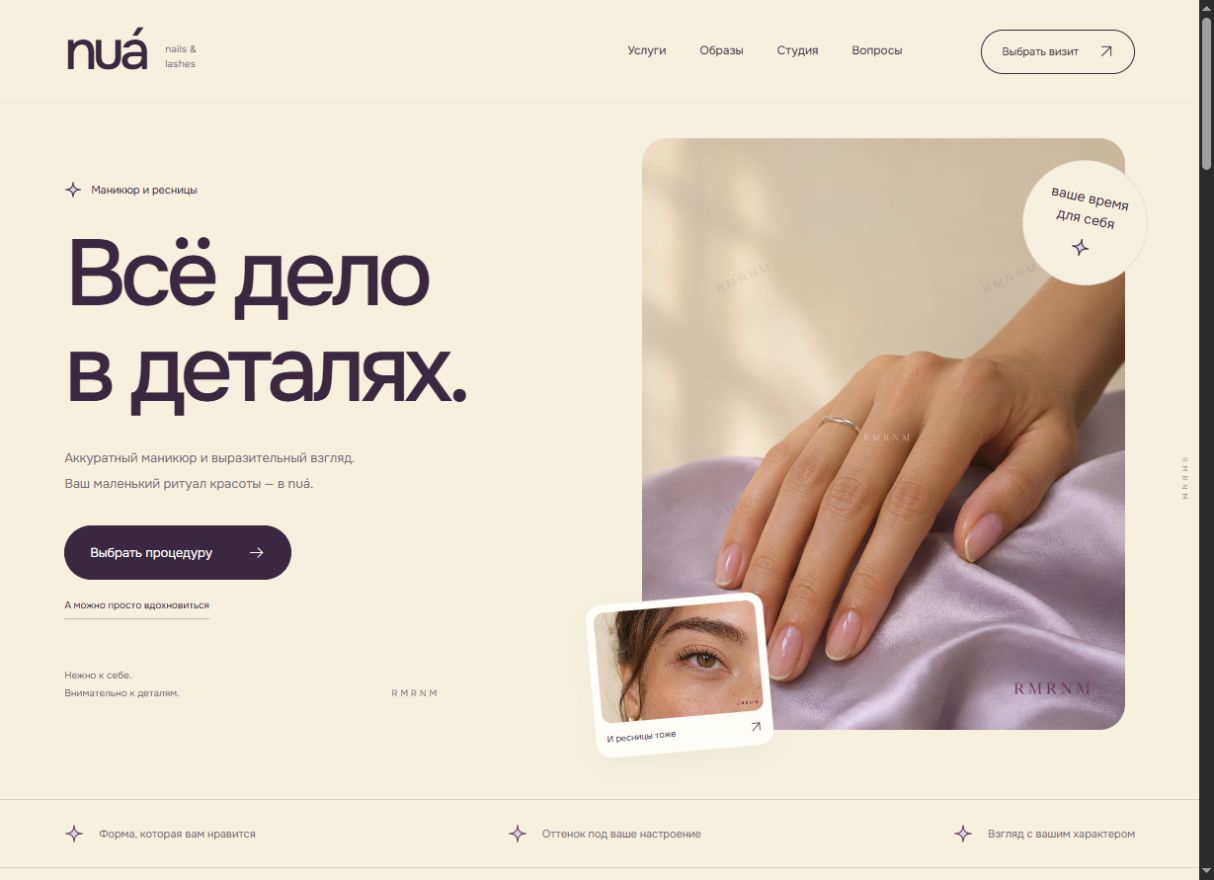
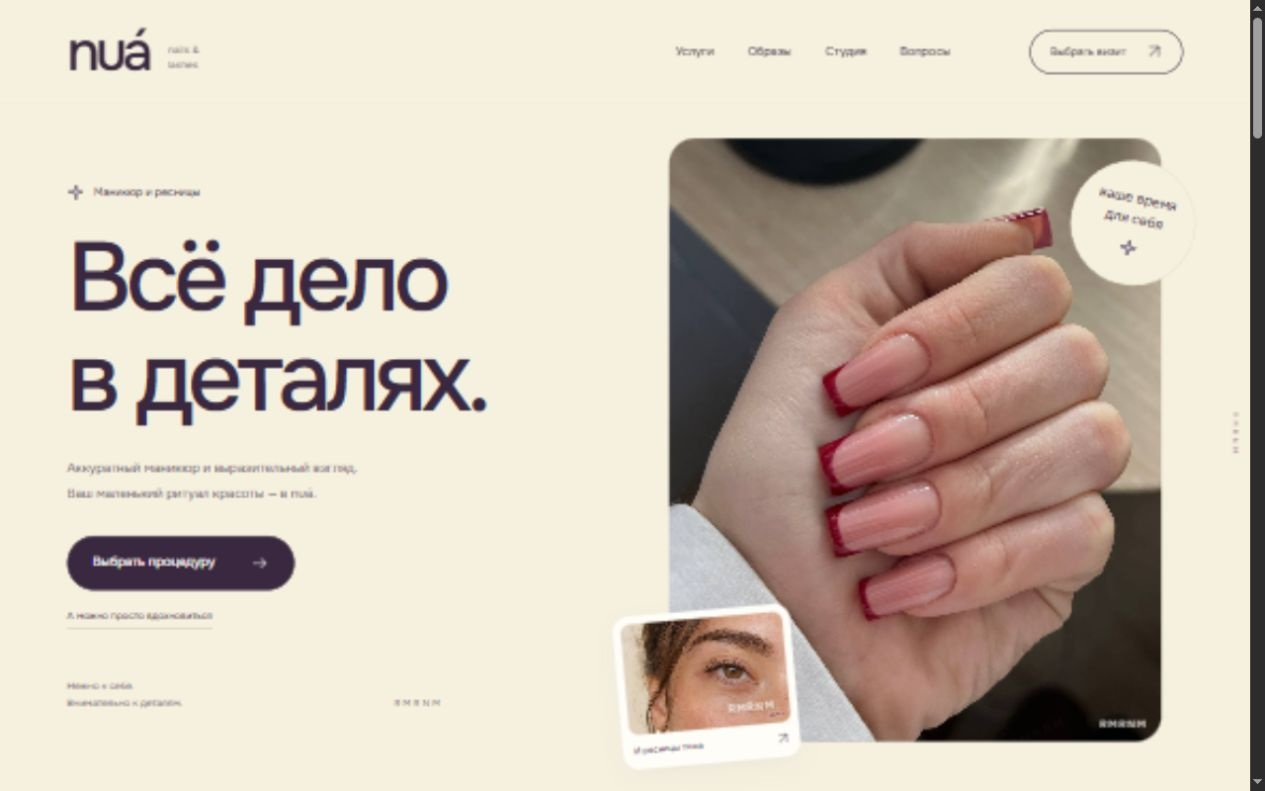
Replace manicure examples with supplied photos and preserve mobile framing

diff --git a/dist/index.html b/dist/index.html
@@ -1,22 +1,22 @@
 <!doctype html><html lang="ru"><head>
-<meta charset="utf-8"><meta name="viewport" content="width=device-width,initial-scale=1"><title>nuá — маникюр и ресницы · RMRNM</title><meta name="description" content="Маникюр, нежные оттенки и наращивание ресниц. nuá — авторский одностраничный сайт студии красоты для портфолио RMRNM."><meta name="author" content="RMRNM"><meta name="copyright" content="RMRNM"><meta name="theme-color" content="#f6f1df"><meta property="og:title" content="nuá — всё дело в деталях"><meta property="og:description" content="Маникюр и ресницы в вашем настроении. Портфолио RMRNM."><meta property="og:type" content="website"><meta property="og:image" content="https://rmrv-n.github.io/nua-rmrnm/assets/hero-nails.webp"><link rel="icon" href="assets/favicon.svg" type="image/svg+xml"><link rel="stylesheet" href="assets/fonts.css"><link rel="stylesheet" href="assets/style.css"><script src="assets/app.js" defer></script>
+<meta charset="utf-8"><meta name="viewport" content="width=device-width,initial-scale=1"><title>nuá — маникюр и ресницы · RMRNM</title><meta name="description" content="Маникюр, нежные оттенки и наращивание ресниц. nuá — авторский одностраничный сайт студии красоты для портфолио RMRNM."><meta name="author" content="RMRNM"><meta name="copyright" content="RMRNM"><meta name="theme-color" content="#f6f1df"><meta property="og:title" content="nuá — всё дело в деталях"><meta property="og:description" content="Маникюр и ресницы в вашем настроении. Портфолио RMRNM."><meta property="og:type" content="website"><meta property="og:image" content="https://rmrv-n.github.io/nua-rmrnm/assets/real-burgundy-french.jpg"><link rel="icon" href="assets/favicon.svg" type="image/svg+xml"><link rel="stylesheet" href="assets/fonts.css"><link rel="stylesheet" href="assets/style.css"><script src="assets/app.js" defer></script>
 </head><body id="top">
 <svg class="svg-library" aria-hidden="true" xmlns="http://www.w3.org/2000/svg"><defs><symbol id="arrow" viewBox="0 0 24 24"><path d="M4 12h16m-6-6 6 6-6 6"/></symbol><symbol id="diagonal" viewBox="0 0 24 24"><path d="M5 19 19 5M5 5h14v14"/></symbol><symbol id="plus" viewBox="0 0 24 24"><path d="M5 12h14M12 5v14"/></symbol><symbol id="close" viewBox="0 0 24 24"><path d="m5 5 14 14M19 5 5 19"/></symbol><symbol id="spark" viewBox="0 0 24 24"><path d="M12 2c0 7-3 10-10 10 7 0 10 3 10 10 0-7 3-10 10-10-7 0-10-3-10-10Z"/></symbol></defs></svg>
 <a class="skip" href="#main">К содержанию</a>
 <header class="header"><a class="logo" href="#top" aria-label="nuá — на главную">nuá<span>nails & lashes</span></a><nav id="nav" aria-label="Основная навигация"><a href="#services">Услуги</a><a href="#looks">Образы</a><a href="#studio">Студия</a><a href="#questions">Вопросы</a></nav><a class="header-book" href="#visit">Выбрать визит <svg class="icon" aria-hidden="true"><use href="#diagonal"/></svg></a><button class="menu-button" type="button" aria-label="Открыть меню" aria-expanded="false" aria-controls="nav"><span></span><span></span></button></header>
 <main id="main">
- <section class="hero container"><div class="hero-copy"><span class="hero-label"><svg class="icon" aria-hidden="true"><use href="#spark"/></svg> Маникюр и ресницы</span><h1>Всё дело<br> в деталях.</h1><p>Аккуратный маникюр и выразительный взгляд.<br> Ваш маленький ритуал красоты — в nuá.</p><a class="button" href="#services">Выбрать процедуру <svg class="icon" aria-hidden="true"><use href="#arrow"/></svg></a><a class="hero-work-link" href="#looks">А можно просто вдохновиться</a><div class="hero-bottom"><span>Нежно к себе.<br> Внимательно к деталям.</span><span class="hero-maker">RMRNM</span></div></div><div class="hero-art"><div class="hero-photo marked"><img src="assets/hero-nails.webp" width="1000" height="1250" alt="Нежный молочный маникюр с тонким микрофренчем на лиловом атласе" fetchpriority="high" decoding="async"></div><span class="hero-sticker" aria-hidden="true">ваше время<br> для себя<svg class="icon" aria-hidden="true"><use href="#spark"/></svg></span><a class="lash-peek" href="#lashes"><div class="marked"><img src="assets/lashes-small.webp" width="700" height="467" alt="Естественное наращивание ресниц" loading="lazy"></div><span>И ресницы тоже <svg class="icon" aria-hidden="true"><use href="#diagonal"/></svg></span></a></div></section>
+ <section class="hero container"><div class="hero-copy"><span class="hero-label"><svg class="icon" aria-hidden="true"><use href="#spark"/></svg> Маникюр и ресницы</span><h1>Всё дело<br> в деталях.</h1><p>Аккуратный маникюр и выразительный взгляд.<br> Ваш маленький ритуал красоты — в nuá.</p><a class="button" href="#services">Выбрать процедуру <svg class="icon" aria-hidden="true"><use href="#arrow"/></svg></a><a class="hero-work-link" href="#looks">А можно просто вдохновиться</a><div class="hero-bottom"><span>Нежно к себе.<br> Внимательно к деталям.</span><span class="hero-maker">RMRNM</span></div></div><div class="hero-art"><div class="hero-photo marked"><img src="assets/real-burgundy-french.jpg" width="1000" height="1250" alt="Маникюр на фото пользователя: нюдовая база и бордовый френч на квадратных ногтях" fetchpriority="high" decoding="async"></div><span class="hero-sticker" aria-hidden="true">ваше время<br> для себя<svg class="icon" aria-hidden="true"><use href="#spark"/></svg></span><a class="lash-peek" href="#lashes"><div class="marked"><img src="assets/lashes-small.webp" width="700" height="467" alt="Естественное наращивание ресниц" loading="lazy"></div><span>И ресницы тоже <svg class="icon" aria-hidden="true"><use href="#diagonal"/></svg></span></a></div></section>
  <div class="little-things container"><span><svg class="icon" aria-hidden="true"><use href="#spark"/></svg>Форма, которая вам нравится</span><span><svg class="icon" aria-hidden="true"><use href="#spark"/></svg>Оттенок под ваше настроение</span><span><svg class="icon" aria-hidden="true"><use href="#spark"/></svg>Взгляд с вашим характером</span></div>
  <section class="services container" id="services"><div class="section-heading"><div><p class="eyebrow">Выберите своё настроение</p><h2>Забота о себе.<br> До кончиков.</h2></div><p>От лаконичного маникюра до мягкого объёма ресниц.<br> Один мастер — внимание к каждой детали.</p></div><div class="service-layout"><div class="service-tabs" role="group" aria-label="Направление услуг"><button type="button" data-category="nails" aria-pressed="true"><span>Маникюр</span><svg class="icon" aria-hidden="true"><use href="#arrow"/></svg></button><button type="button" data-category="lashes" aria-pressed="false"><span>Ресницы</span><svg class="icon" aria-hidden="true"><use href="#arrow"/></svg></button><p>Все цены и длительность показаны для демонстрации сайта.</p></div><div id="service-list" class="service-list" aria-live="polite"><article><div><h3>Маникюр без покрытия</h3><p>Форма и аккуратный естественный вид · 60 мин</p></div><strong>1 200 ₽</strong><button type="button" data-service="manicure" aria-label="Выбрать маникюр без покрытия"><svg class="icon" aria-hidden="true"><use href="#diagonal"/></svg></button></article><article><div><h3>Маникюр с гель-лаком</h3><p>Ваш любимый оттенок или молочный нюд · 105 мин</p></div><strong>2 400 ₽</strong><button type="button" data-service="gel" aria-label="Выбрать маникюр с гель-лаком"><svg class="icon" aria-hidden="true"><use href="#diagonal"/></svg></button></article><article><div><h3>Наращивание ногтей</h3><p>Когда хочется другой длины и формы · 150 мин</p></div><strong>3 400 ₽</strong><button type="button" data-service="extensions" aria-label="Выбрать наращивание ногтей"><svg class="icon" aria-hidden="true"><use href="#diagonal"/></svg></button></article></div></div></section>
- <section class="looks-section" id="looks"><div class="container"><div class="section-heading"><div><p class="eyebrow">Не обязательно знать заранее</p><h2>Найдите своё «хочу».</h2></div><div class="look-filters" role="group" aria-label="Фильтр образов"><button type="button" data-filter="all" aria-pressed="true">Все образы</button><button type="button" data-filter="nails" aria-pressed="false">Ногти</button><button type="button" data-filter="lashes" aria-pressed="false">Ресницы</button></div></div><div class="look-grid"><article class="look" data-type="nails"><button type="button" class="look-photo marked" data-look="micro" aria-label="Рассмотреть молочный микрофренч"><img src="assets/hero-nails.webp" srcset="assets/hero-nails-small.webp 520w, assets/hero-nails.webp 1000w" sizes="(max-width:650px) 48vw, 25vw" width="1000" height="1250" alt="Полупрозрачные ногти с тонкой светлой линией" loading="lazy"><span><svg class="icon" aria-hidden="true"><use href="#plus"/></svg></span></button><h3>Молочный микрофренч</h3><p>Тонкая линия, много нежности</p></article><article class="look" data-type="nails"><button type="button" class="look-photo marked" data-look="cherry" aria-label="Рассмотреть вишнёвый маникюр"><img src="assets/cherry-nails.webp" srcset="assets/cherry-nails-small.webp 520w, assets/cherry-nails.webp 1000w" sizes="(max-width:650px) 48vw, 25vw" width="1000" height="1250" alt="Короткие овальные ногти глубокого вишнёвого оттенка" loading="lazy"><span><svg class="icon" aria-hidden="true"><use href="#plus"/></svg></span></button><h3>Спелая вишня</h3><p>Маленький уверенный акцент</p></article><article class="look" data-type="nails"><button type="button" class="look-photo marked" data-look="pearl" aria-label="Рассмотреть жемчужный маникюр"><img src="assets/pearl-nails.webp" srcset="assets/pearl-nails-small.webp 520w, assets/pearl-nails.webp 1000w" sizes="(max-width:650px) 48vw, 25vw" width="1000" height="1250" alt="Молочные ногти с мягким перламутровым сиянием" loading="lazy"><span><svg class="icon" aria-hidden="true"><use href="#plus"/></svg></span></button><h3>Жемчужное сияние</h3><p>Свет в каждом движении</p></article><article class="look" data-type="lashes"><button type="button" class="look-photo marked" data-look="gaze" aria-label="Рассмотреть естественный эффект ресниц"><img class="eye-crop" src="assets/lashes.webp" width="1600" height="1067" alt="Выразительный карий глаз с естественным эффектом ресниц" loading="lazy"><span><svg class="icon" aria-hidden="true"><use href="#plus"/></svg></span></button><h3>Выразительный взгляд</h3><p>Лёгкость и красивая линия</p></article></div><p class="gallery-note">Визуальные концепции RMRNM для портфолио. Фотографии созданы с помощью imagegen.</p></div></section>
+ <section class="looks-section" id="looks"><div class="container"><div class="section-heading"><div><p class="eyebrow">Не обязательно знать заранее</p><h2>Найдите своё «хочу».</h2></div><div class="look-filters" role="group" aria-label="Фильтр образов"><button type="button" data-filter="all" aria-pressed="true">Все образы</button><button type="button" data-filter="nails" aria-pressed="false">Ногти</button><button type="button" data-filter="lashes" aria-pressed="false">Ресницы</button></div></div><div class="look-grid"><article class="look" data-type="nails"><button type="button" class="look-photo marked" data-look="micro" aria-label="Рассмотреть бордовый френч"><img src="assets/real-burgundy-french.jpg" sizes="(max-width:650px) 48vw, 25vw" width="1000" height="1250" alt="Нюдовые квадратные ногти с бордовыми кончиками" loading="lazy"><span><svg class="icon" aria-hidden="true"><use href="#plus"/></svg></span></button><h3>Бордовый френч</h3><p>Нюдовая база и винный акцент</p></article><article class="look" data-type="nails"><button type="button" class="look-photo marked" data-look="cherry" aria-label="Рассмотреть белый френч"><img src="assets/real-white-french.jpg" sizes="(max-width:650px) 48vw, 25vw" width="1000" height="1250" alt="Белый френч на квадратных ногтях, фото руки при дневном свете" loading="lazy"><span><svg class="icon" aria-hidden="true"><use href="#plus"/></svg></span></button><h3>Белый френч</h3><p>Чёткая линия на мягком квадрате</p></article><article class="look" data-type="nails"><button type="button" class="look-photo marked" data-look="pearl" aria-label="Рассмотреть ярко-розовый маникюр"><img src="assets/real-pink-nails.jpg" sizes="(max-width:650px) 48vw, 25vw" width="1000" height="1250" alt="Ярко-розовые квадратные ногти с прозрачными объёмными каплями" loading="lazy"><span><svg class="icon" aria-hidden="true"><use href="#plus"/></svg></span></button><h3>Розовый акцент</h3><p>Насыщенный цвет и объёмные детали</p></article><article class="look" data-type="lashes"><button type="button" class="look-photo marked" data-look="gaze" aria-label="Рассмотреть естественный эффект ресниц"><img class="eye-crop" src="assets/lashes.webp" width="1600" height="1067" alt="Выразительный карий глаз с естественным эффектом ресниц" loading="lazy"><span><svg class="icon" aria-hidden="true"><use href="#plus"/></svg></span></button><h3>Выразительный взгляд</h3><p>Лёгкость и красивая линия</p></article></div><p class="gallery-note">Фотографии маникюра предоставлены автором портфолио. Образ ресниц — иллюстрация.</p></div></section>
  <section class="lashes-section container" id="lashes"><div class="lash-feature-photo marked"><img src="assets/lashes.webp" width="1600" height="1067" alt="Крупный план ресниц с деликатным изгибом и естественной текстурой" loading="lazy"></div><div class="lashes-copy"><span class="pill-label">Не только маникюр</span><h2>Ресницы.<br> Взгляд — ваш.</h2><p>Мастер nuá также специализируется на наращивании ресниц. Выбирайте лёгкий акцент или чуть больше объёма — под настроение, а не по шаблону.</p><dl><div><dt>Классика</dt><dd>Чёткая линия, естественная выразительность.</dd></div><div><dt>Мягкий 2D</dt><dd>Более пушистый и объёмный эффект.</dd></div></dl><button class="button button-light" type="button" data-service="classic">Выбрать ресницы <svg class="icon" aria-hidden="true"><use href="#arrow"/></svg></button></div></section>
  <section class="studio container" id="studio"><div class="studio-copy"><p class="eyebrow">Красота без суеты</p><h2>Здесь можно<br> немного выдохнуть.</h2><p>Выбрать оттенок. Рассмотреть референсы. Найти форму, с которой вам комфортно. В nuá маленькие решения складываются в ощущение «как же мне нравится».</p><p>Маникюр и ресницы — два отдельных ритуала. Их можно запланировать по очереди и посвятить это время себе.</p><a class="line-link" href="#visit">Спланировать свой визит <svg class="icon" aria-hidden="true"><use href="#arrow"/></svg></a></div><div class="studio-photo marked"><img src="assets/studio.webp" width="1600" height="1067" alt="Светлая студия с лиловыми креслами, сливочными стенами и мягким дневным светом" loading="lazy"><span>nuá — ваше время для себя</span></div></section>
  <section class="faq container" id="questions"><div><p class="eyebrow">Если вы у нас впервые</p><h2>Сначала —<br> пара ответов.</h2></div><div class="faq-list"><details><summary>Можно прийти со своим референсом?<svg class="icon" aria-hidden="true"><use href="#plus"/></svg></summary><p>Конечно. Фото помогает объяснить настроение, цвет и форму. В нашей галерее тоже можно выбрать образ — он появится в вашем плане визита.</p></details><details><summary>Чем отличается классика ресниц от 2D?<svg class="icon" aria-hidden="true"><use href="#plus"/></svg></summary><p>В классике к одной натуральной реснице добавляют одну искусственную. В объёмном наращивании используют пучки из тонких ресниц. Классика выглядит сдержаннее, 2D добавляет мягкий объём.</p></details><details><summary>Снятие покрытия входит в стоимость?<svg class="icon" aria-hidden="true"><use href="#plus"/></svg></summary><p>В примере записи снятие можно выбрать отдельно. Все дополнения сразу входят в расчёт цены и времени — вы видите итог до последнего шага.</p></details><details><summary>Можно сделать маникюр и ресницы за один визит?<svg class="icon" aria-hidden="true"><use href="#plus"/></svg></summary><p>Такие процедуры у одного мастера планируют последовательно. В демоверсии выбирается одна основная процедура; реальный совместный визит нужно согласовать с мастером.</p></details></div></section>
  <section class="visit-section" id="visit"><div class="container visit-layout"><div class="visit-intro"><p class="eyebrow">Маленький план для большого настроения</p><h2>Оставьте время<br> для себя.</h2><p>Выберите процедуру и желаемые детали.<br> Мы покажем, как может выглядеть ваш визит.</p><div class="visit-summary" aria-live="polite"><span>Ваш выбор</span><h3 id="summary-service">Маникюр с гель-лаком</h3><div><strong id="summary-price">2 400 ₽</strong><span id="summary-duration">1 ч 45 мин</span></div><p>Цены, длительность и время — примеры для портфолио, а не доступность реального салона.</p></div><span class="visit-maker">RMRNM</span></div><form id="visit-form"><label class="field-label" for="service">С чего начнём?</label><select id="service" name="service"><optgroup label="Маникюр"><option value="manicure">Маникюр без покрытия</option><option value="gel" selected>Маникюр с гель-лаком</option><option value="extensions">Наращивание ногтей</option></optgroup><optgroup label="Ресницы"><option value="classic">Классическое наращивание</option><option value="volume">Наращивание 2D</option><option value="removal">Снятие ресниц</option></optgroup></select><fieldset class="extras-fieldset"><legend>Добавим детали?</legend><div id="extras"></div></fieldset><div class="inspiration" id="inspiration" hidden><span id="inspiration-text"></span><button type="button" id="clear-inspiration" aria-label="Убрать выбранный образ"><svg class="icon" aria-hidden="true"><use href="#close"/></svg></button></div><label class="field-label" for="visit-date">Желаемая дата</label><input id="visit-date" name="date" type="date" required aria-describedby="date-note"><p class="field-note" id="date-note">Выбор даты не бронирует время.</p><fieldset class="time-fieldset"><legend>Пример удобного времени</legend><div class="time-options"><label><input type="radio" name="time" value="10:00" checked><span>10:00</span></label><label><input type="radio" name="time" value="12:30"><span>12:30</span></label><label><input type="radio" name="time" value="15:00"><span>15:00</span></label><label><input type="radio" name="time" value="17:30"><span>17:30</span></label></div></fieldset><button class="button" type="submit">Посмотреть план визита <svg class="icon" aria-hidden="true"><use href="#arrow"/></svg></button><p class="form-note">Демонстрация записи. Контакты не запрашиваются,<br> заявка мастеру не отправляется.</p></form></div></section>
 </main>
 <footer class="footer container"><div class="footer-main"><a class="logo" href="#top">nuá<span>nails & lashes</span></a><p>Нежно к себе.<br> Внимательно к деталям.</p><nav aria-label="Навигация в подвале"><a href="#services">Услуги</a><a href="#looks">Образы</a><a href="#visit">Выбрать визит</a></nav><span class="footer-maker">RMRNM</span></div><div class="footer-bottom"><span>© 2026 RMRNM. Авторский дизайн и визуальные материалы.</span><span>nuá — вымышленная студия для портфолио.</span><button type="button" id="project-info-open">О проекте</button></div></footer><span class="edge-mark" aria-hidden="true">RMRNM</span>
-<dialog class="look-dialog" id="look-dialog" aria-labelledby="look-title"><button class="dialog-close" type="button" data-close aria-label="Закрыть образ"><svg class="icon" aria-hidden="true"><use href="#close"/></svg></button><div class="look-dialog-photo marked"><img id="look-image" src="assets/hero-nails.webp" alt=""></div><div class="look-dialog-copy"><span class="pill-label">Вдохновение для вашего визита</span><h2 id="look-title">Молочный микрофренч</h2><p id="look-description"></p><button class="button" type="button" id="choose-look">Хочу такой образ <svg class="icon" aria-hidden="true"><use href="#arrow"/></svg></button><div class="look-controls"><button type="button" id="look-prev" aria-label="Предыдущий образ">←</button><span id="look-counter" aria-live="polite">1 / 4</span><button type="button" id="look-next" aria-label="Следующий образ">→</button></div><small>Визуальная концепция RMRNM · imagegen</small></div></dialog>
+<dialog class="look-dialog" id="look-dialog" aria-labelledby="look-title"><button class="dialog-close" type="button" data-close aria-label="Закрыть образ"><svg class="icon" aria-hidden="true"><use href="#close"/></svg></button><div class="look-dialog-photo marked"><img id="look-image" src="assets/real-burgundy-french.jpg" alt=""></div><div class="look-dialog-copy"><span class="pill-label">Вдохновение для вашего визита</span><h2 id="look-title">Бордовый френч</h2><p id="look-description"></p><button class="button" type="button" id="choose-look">Хочу такой образ <svg class="icon" aria-hidden="true"><use href="#arrow"/></svg></button><div class="look-controls"><button type="button" id="look-prev" aria-label="Предыдущий образ">←</button><span id="look-counter" aria-live="polite">1 / 4</span><button type="button" id="look-next" aria-label="Следующий образ">→</button></div><small id="look-credit">Фото пользователя · Портфолио RMRNM</small></div></dialog>
 <dialog class="plan-dialog" id="plan-dialog" aria-labelledby="plan-title"><button class="dialog-close" type="button" data-close aria-label="Закрыть план визита"><svg class="icon" aria-hidden="true"><use href="#close"/></svg></button><svg class="plan-spark icon" aria-hidden="true"><use href="#spark"/></svg><p class="eyebrow">Приятно, когда всё понятно</p><h2 id="plan-title">Ваш маленький<br> ритуал красоты.</h2><div id="plan-content"></div><p class="plan-notice">Это пример визита. Заявка не отправлена, дата и время не забронированы. Оплата не требуется.</p><button class="button" type="button" data-close>Изменить выбор</button><small>Портфолио RMRNM</small></dialog>
-<dialog class="info-dialog" id="project-info" aria-labelledby="info-title"><button class="dialog-close" type="button" data-close aria-label="Закрыть информацию"><svg class="icon" aria-hidden="true"><use href="#close"/></svg></button><span class="footer-maker">RMRNM</span><h2 id="info-title">Красота в деталях.<br> Дизайн — в портфолио.</h2><p>nuá — вымышленная студия маникюра и ресниц. Сайт показывает визуальную концепцию и пример выбора процедуры. Изображения созданы встроенным imagegen; это не фотографии реальных клиентов или работ мастера.</p><p>Все цены, длительность и варианты времени демонстрационные. Форма работает только в вашем браузере, не запрашивает контакты и не отправляет заявки.</p><p>Маркировки RMRNM встроены в изображения, графический паттерн и оформление. Абсолютно исключить их удаление технически невозможно.</p></dialog>
+<dialog class="info-dialog" id="project-info" aria-labelledby="info-title"><button class="dialog-close" type="button" data-close aria-label="Закрыть информацию"><svg class="icon" aria-hidden="true"><use href="#close"/></svg></button><span class="footer-maker">RMRNM</span><h2 id="info-title">Красота в деталях.<br> Дизайн — в портфолио.</h2><p>nuá — вымышленная студия маникюра и ресниц. Сайт показывает визуальную концепцию и пример выбора процедуры. Фотографии маникюра предоставлены пользователем. Изображения ресниц и интерьера созданы с помощью imagegen и являются иллюстрациями.</p><p>Все цены, длительность и варианты времени демонстрационные. Форма работает только в вашем браузере, не запрашивает контакты и не отправляет заявки.</p><p>Маркировки RMRNM размещены поверх фотографий, в графическом паттерне и оформлении. Абсолютно исключить их удаление технически невозможно.</p></dialog>
 <noscript><p class="noscript">Для выбора процедур, галереи и расчёта визита включите JavaScript. Тексты и разделы доступны для чтения.</p></noscript>
 </body></html>

diff --git a/dist/assets/style.css b/dist/assets/style.css
@@ -7,3 +7,13 @@ dialog{border:1px solid var(--line);background:var(--paper);color:var(--plum);bo
 @media(max-width:650px){:root{--gutter:22px}html{scroll-padding-top:86px}.header{height:80px;padding-block:15px;gap:15px}.logo{font-size:45px;gap:11px;letter-spacing:-4px}.logo span{font-size:7px;line-height:1.6;width:31px;margin-top:8px}.header nav{display:none}.header-book{margin-left:auto;font-size:9px;padding:9px 12px;gap:10px;min-height:39px}.header-book .icon{width:14px;height:14px}.menu-button{display:flex;flex-direction:column;justify-content:center;gap:6px;width:34px;min-width:34px;height:38px;padding:6px;margin-right:-6px}.menu-button span{width:22px;height:1px;background:var(--plum);display:block}.menu-button[aria-expanded=true] span:first-child{transform:translateY(3.5px) rotate(45deg)}.menu-button[aria-expanded=true] span:last-child{transform:translateY(-3.5px) rotate(-45deg)}.header nav.open{display:flex;position:absolute;left:0;right:0;top:80px;flex-direction:column;gap:0;background:var(--cream);border-bottom:1px solid var(--line);padding:12px var(--gutter) 22px;margin:0}.header nav.open a{font-size:14px;padding-block:13px}.hero{display:flex;flex-direction:column-reverse;gap:34px;padding-top:15px;padding-bottom:32px;align-items:stretch}.hero-art{width:100%;padding:0 4px 0 12px;max-width:450px;margin:auto}.hero-photo{aspect-ratio:1.07;max-height:380px;border-radius:20px}.hero-photo img{object-position:center 54%}.hero-sticker{width:83px;height:83px;font-size:9px;right:-2px;top:13px}.hero-sticker .icon{width:15px;height:15px;margin-top:5px}.lash-peek{width:119px;left:-8px;bottom:-14px;padding:6px;border-radius:12px}.lash-peek>div{height:69px;border-radius:8px}.lash-peek>span{font-size:7px;padding:6px 2px 2px}.lash-peek>span .icon{width:11px;height:11px}.hero-copy{padding-top:0}.hero-label{font-size:10px;gap:8px;margin-bottom:17px}.hero-label .icon{width:17px;height:17px}.hero h1{font-size:clamp(48px,15.7vw,74px);line-height:1.02;letter-spacing:-.065em}.hero-copy>p{font-size:12px;line-height:1.9;margin-top:21px}.hero-copy>p br{display:none}.hero-copy>.button{font-size:12px;min-height:50px;min-width:223px;padding:13px 21px;margin-top:23px}.hero-work-link{font-size:9px;margin-top:17px}.hero-bottom{font-size:9px;margin-top:26px;max-width:none}.hero-maker{font-size:8px;letter-spacing:3px}.little-things{display:flex;flex-direction:column;gap:14px;padding-block:21px}.little-things span{font-size:10px;gap:12px}.little-things .icon{width:17px;height:17px}.services{padding-block:46px 48px}.eyebrow{font-size:10px;margin-bottom:15px}.section-heading{display:block;margin-bottom:27px}.section-heading h2{font-size:38px;letter-spacing:-.05em;line-height:1.12}.section-heading>p{font-size:11px;line-height:1.9;max-width:42ch;margin-top:22px;padding:0}.section-heading>p br{display:none}.service-layout{display:flex;flex-direction:column;gap:24px}.service-tabs{display:grid;grid-template-columns:1fr 1fr;gap:12px;padding:0}.service-tabs>button{font-size:16px;min-height:49px;padding:12px 15px;border-radius:12px;margin:0;background:#eee9d9}.service-tabs>button .icon{width:17px;height:17px}.service-tabs>p{grid-column:1/-1;font-size:8px;max-width:none;padding:0;margin:0}.service-list>article{padding-block:20px;gap:14px}.service-list h3{font-size:16px;max-width:20ch;line-height:1.35}.service-list p{font-size:9px;max-width:31ch;line-height:1.8;margin-top:7px}.service-list strong{font-size:12px}.service-list button{width:33px;height:33px;min-width:33px}.service-list button .icon{width:15px;height:15px}.looks-section{padding-block:45px}.looks-section h2{max-width:none;font-size:37px}.look-filters{justify-content:flex-start;max-width:none;margin-top:25px;gap:8px}.look-filters button{font-size:10px;min-height:36px;padding:8px 12px}.look-grid{gap:26px 14px}.look-photo{border-radius:14px;aspect-ratio:4/5.2}.look-photo>span{right:8px;bottom:8px;width:29px;height:29px}.look-photo>span .icon{width:14px;height:14px}.look h3{font-size:13px;letter-spacing:-.025em;line-height:1.4;margin-top:13px}.look>p{font-size:9px;line-height:1.8;max-width:18ch;margin-top:5px}.gallery-note{font-size:8px;line-height:1.9;margin-top:25px}.look-grid.single{grid-template-columns:minmax(0,1fr);max-width:300px}.lashes-section{display:flex;flex-direction:column;margin-block:48px;border-radius:22px}.lash-feature-photo{height:auto;min-height:0;aspect-ratio:1.3}.lash-feature-photo img{object-position:50% 48%}.lashes-copy{padding:30px 25px 32px}.lashes-copy h2{font-size:42px;line-height:1.08}.lashes-copy .pill-label{font-size:9px;margin-bottom:21px}.lashes-copy>p{font-size:12px;max-width:44ch;margin-top:21px}.lashes-copy dl{margin-block:24px}.lashes-copy dl>div{grid-template-columns:70px 1fr;gap:15px;padding-block:13px}.lashes-copy dt{font-size:11px}.lashes-copy dd{font-size:10px}.lashes-copy .button{font-size:11px;min-height:48px;gap:28px;padding-inline:20px}.studio{display:flex;flex-direction:column;gap:30px;padding-bottom:48px;align-items:stretch}.studio h2{font-size:38px;line-height:1.12}.studio-copy>p:not(.eyebrow){font-size:12px;max-width:45ch;margin-top:21px}.studio-copy .line-link{font-size:11px;margin-top:20px;gap:24px}.studio-photo{aspect-ratio:1.12;border-radius:19px}.studio-photo>span{font-size:9px;left:13px;bottom:14px;padding:7px 11px}.faq{display:block;padding-bottom:48px}.faq h2{font-size:37px}.faq-list{margin-top:27px}.faq-list summary{font-size:11px;line-height:1.9;gap:20px}.faq-list details{padding-block:17px}.faq-list details>p{font-size:11px;line-height:1.9}.visit-section{padding-block:46px}.visit-layout{display:block}.visit-intro h2{font-size:43px}.visit-intro>p:not(.eyebrow){font-size:12px;margin-top:23px}.visit-intro>p:not(.eyebrow) br{display:none}.visit-summary{margin-top:26px;padding:23px 24px;max-width:none;border-radius:18px}.visit-summary>span{font-size:9px}.visit-summary h3{font-size:21px;margin-top:13px}.visit-summary>div{margin-top:20px}.visit-summary strong{font-size:29px}.visit-summary>div span{font-size:11px}.visit-summary>p{font-size:9px;max-width:41ch;margin-top:14px}.visit-maker{display:none}#visit-form{margin-top:25px;padding:26px 23px;border-radius:20px}.field-label,legend{font-size:11px}select,input[type=date]{font-size:11px;padding:12px;min-height:46px;border-radius:8px}.extra-option{font-size:11px;gap:10px;min-height:44px}.extra-option small{font-size:9px}.time-options{gap:9px}.time-options span{font-size:11px;min-height:41px}.field-note{font-size:9px}#visit-form>.button{font-size:11px;gap:18px;padding-inline:18px;min-height:50px}.form-note{font-size:8px;line-height:1.9}.inspiration{font-size:9px;line-height:1.8}.footer{padding-block:39px 15px}.footer-main{display:grid;grid-template-columns:1fr 1fr;gap:27px 20px;padding-bottom:28px}.footer-main .logo{font-size:52px;gap:14px}.footer-main .logo span{font-size:8px;width:35px}.footer-main>p{font-size:10px;margin-left:auto}.footer-main nav{font-size:10px;gap:9px}.footer-main>.footer-maker{font-size:13px;letter-spacing:3px;margin-left:auto}.footer-bottom{display:flex;flex-direction:column;align-items:flex-start;gap:10px;font-size:8px;padding-top:18px}.footer-bottom span{max-width:none}.footer-bottom button{font-size:9px;padding:4px 0;min-height:29px}.edge-mark{right:4px;font-size:6px;letter-spacing:3px}.look-dialog{width:calc(100% - 26px);border-radius:20px;max-height:calc(100dvh - 26px)}.look-dialog[open]{display:flex;flex-direction:column}.look-dialog-photo{height:auto;min-height:0;aspect-ratio:1.15}.look-dialog-photo img{object-position:center 48%}.look-dialog-copy{padding:26px 25px}.look-dialog-copy .pill-label{font-size:8px;margin-bottom:18px}.look-dialog-copy h2{font-size:29px}.look-dialog-copy>p{font-size:11px;line-height:1.9;margin-top:19px}.look-dialog-copy>.button{font-size:10px;min-height:46px;gap:25px;margin-top:22px}.look-controls{margin-top:23px;gap:17px}.look-controls button{width:34px;height:34px}.look-controls span{font-size:9px}.look-dialog-copy>small{font-size:8px;margin-top:19px}.dialog-close{right:12px;top:12px;width:35px;height:35px}.plan-dialog,.info-dialog{padding:38px 25px 27px;border-radius:22px;width:calc(100% - 28px);max-height:calc(100dvh - 26px)}.plan-spark{width:31px;height:31px;margin-bottom:21px}.plan-dialog h2{font-size:32px;line-height:1.12}.plan-dialog .eyebrow{font-size:9px}#plan-content{margin-top:23px}#plan-content dl{font-size:11px}#plan-content dl>div{padding-block:11px;gap:20px}#plan-content dd{max-width:23ch}#plan-content>p{font-size:10px}#plan-content .plan-total{font-size:25px}.plan-notice{font-size:9px;line-height:1.85;padding:13px 15px;margin-top:20px}.plan-dialog>.button{font-size:11px;min-height:47px;margin-top:21px}.plan-dialog>small{font-size:8px;margin-top:18px}.info-dialog h2{font-size:29px}.info-dialog>p{font-size:11px;line-height:1.9}.info-dialog>.footer-maker{font-size:13px;margin-bottom:24px}.noscript{font-size:10px}}
 @media(max-width:360px){.header-book{padding-inline:10px;gap:8px;font-size:8px}.header{gap:10px}.logo{font-size:41px;gap:9px}.logo span{font-size:6px;width:27px}.service-list>article{gap:10px}.service-list h3{font-size:15px}.service-list p{font-size:8px}.service-list strong{font-size:11px}.service-list button{width:29px;height:29px;min-width:29px}.look-filters{gap:6px}.look-filters button{font-size:9px;padding-inline:10px}.visit-intro h2{font-size:38px}#visit-form{padding-inline:18px}.extra-option{font-size:10px}.extra-option small{font-size:8px}.time-options{gap:6px}.time-options span{font-size:10px}.plan-dialog h2{font-size:29px}}
 @media(prefers-reduced-motion:reduce){html{scroll-behavior:auto}*,*:before,*:after{animation:none!important;transition:none!important}}
+
+/* User photographs: framing only, original nail shapes and colors preserved. */
+.look-photo[data-look="pearl"]{aspect-ratio:4/5}.look-photo[data-look="pearl"]>img{object-position:50% 55%;transform:scale(1.09)}.look-photo[data-look="pearl"]:hover>img{transform:scale(1.11)}
+.look-dialog[data-active-look="pearl"] .look-dialog-photo{aspect-ratio:4/5;height:auto;min-height:0;align-self:start}.look-dialog[data-active-look="pearl"] #look-image{object-fit:cover;object-position:50% 55%;transform:scale(1.09)}
+@media(max-width:650px){.look-dialog[data-active-look="pearl"] .look-dialog-photo{aspect-ratio:4/5;height:auto;max-height:64vh}.hero-photo img{object-position:50% 57%}}
+
+/* Visible signature remains legible on the new photographs. */
+.marked:before{content:'RMRNM';position:absolute;right:14px;bottom:13px;z-index:2;color:#fffaf3;font-size:10px;font-weight:500;letter-spacing:2px;line-height:1;text-shadow:0 1px 5px #271525a6;opacity:.78;pointer-events:none}
+
+@media(max-width:650px){.look-dialog[data-active-look='micro'] .look-dialog-photo{aspect-ratio:1;height:auto;min-height:0}.look-dialog[data-active-look='cherry'] .look-dialog-photo{aspect-ratio:3/4;height:auto;min-height:0}.look-dialog[data-active-look='cherry'] #look-image{object-position:50% 50%}}

diff --git a/dist/assets/app.js b/dist/assets/app.js
@@ -7,7 +7,7 @@ const duration=n=>{const h=Math.floor(n/60),m=n%60;return [h?h+' ч':'',m?m+' м
 const icon=name=>'<svg class="icon" aria-hidden="true"><use href="#'+name+'"/></svg>';
 const extras={polish:{name:'Снятие покрытия',price:300,time:15},strength:{name:'Укрепление',price:400,time:20},design:{name:'Лёгкий дизайн',price:200,time:15},lashRemoval:{name:'Снятие прежних ресниц',price:400,time:20},brown:{name:'Коричневый эффект',price:300,time:0}};
 const services={manicure:{name:'Маникюр без покрытия',label:'Выбрать маникюр без покрытия',category:'nails',price:1200,time:60,note:'Форма и аккуратный естественный вид',extras:['polish']},gel:{name:'Маникюр с гель-лаком',label:'Выбрать маникюр с гель-лаком',category:'nails',price:2400,time:105,note:'Ваш любимый оттенок или молочный нюд',extras:['polish','strength','design']},extensions:{name:'Наращивание ногтей',label:'Выбрать наращивание ногтей',category:'nails',price:3400,time:150,note:'Когда хочется другой длины и формы',extras:['polish','design']},classic:{name:'Классическое наращивание',label:'Выбрать классическое наращивание ресниц',category:'lashes',price:2800,time:120,note:'Естественная выразительность и аккуратная линия',extras:['lashRemoval','brown']},volume:{name:'Наращивание 2D',label:'Выбрать наращивание ресниц 2D',category:'lashes',price:3300,time:150,note:'Мягкий объём и более пушистый эффект',extras:['lashRemoval','brown']},removal:{name:'Снятие ресниц',label:'Выбрать снятие ресниц',category:'lashes',price:800,time:30,note:'Отдельная процедура снятия',extras:[]}};
-const looks=[{id:'micro',type:'nails',image:'hero-nails',name:'Молочный микрофренч',description:'Полупрозрачная молочная база, мягкая овальная форма и очень тонкая светлая линия. Спокойный образ, который легко вписать в любой день.',service:'gel'},{id:'cherry',type:'nails',image:'cherry-nails',name:'Спелая вишня',description:'Глубокий вишнёвый оттенок на коротких овальных ногтях. Лаконично, выразительно и без лишнего декора.',service:'gel'},{id:'pearl',type:'nails',image:'pearl-nails',name:'Жемчужное сияние',description:'Молочное покрытие с деликатным перламутровым светом. Идея для тех дней, когда хочется добавить совсем немного сияния.',service:'gel'},{id:'gaze',type:'lashes',image:'lashes',name:'Выразительный взгляд',description:'Тонкая линия ресниц и деликатный изгиб. Визуальная идея естественного эффекта; конкретную длину и форму в реальной студии подбирают с мастером.',service:'classic'}];
+const looks=[{id:'micro',type:'nails',image:'real-burgundy-french',ext:'jpg',name:'Бордовый френч',description:'Нюдовая база, квадратная форма и тонкая линия бордового цвета. Фотография предоставлена пользователем.',service:'gel'},{id:'cherry',type:'nails',image:'real-white-french',ext:'jpg',name:'Белый френч',description:'Чёткий белый край и полупрозрачная база на квадратных ногтях. Фотография предоставлена пользователем.',service:'gel'},{id:'pearl',type:'nails',image:'real-pink-nails',ext:'jpg',name:'Розовый акцент',description:'Ярко-розовое покрытие и прозрачные объёмные детали. Кадр приближен к маникюру без ретуши формы и цвета ногтей.',service:'gel'},{id:'gaze',type:'lashes',image:'lashes',name:'Выразительный взгляд',description:'Иллюстрация естественного эффекта ресниц. Конкретную длину и форму подбирают с мастером.',service:'classic'}];
 let lookIndex=0,inspiration=null;
 const motion=()=>matchMedia('(prefers-reduced-motion: reduce)').matches?'instant':'smooth';
 const goVisit=()=>{$('#visit').scrollIntoView({behavior:motion()});$('#service').focus({preventScroll:true});};
@@ -23,7 +23,7 @@ $('#service').addEventListener('change',renderExtras);$('#extras').addEventListe
 $('#clear-inspiration').addEventListener('click',()=>{inspiration=null;updateSummary();});
 document.addEventListener('click',e=>{const b=e.target.closest('[data-service]');if(b&&services[b.dataset.service]){$('#service').value=b.dataset.service;renderExtras();goVisit();}});
 $$('[data-filter]').forEach(b=>b.addEventListener('click',()=>{const filter=b.dataset.filter;$$('[data-filter]').forEach(button=>button.setAttribute('aria-pressed',String(button===b)));$$('.look').forEach(el=>el.hidden=filter!=='all'&&el.dataset.type!==filter);$('.look-grid').classList.toggle('single',$$('.look').filter(el=>!el.hidden).length===1);}));
-const showLook=index=>{lookIndex=(index+looks.length)%looks.length;const l=looks[lookIndex];$('#look-image').src='assets/'+l.image+'.webp';$('#look-image').alt=l.name+' — визуальная концепция RMRNM';$('#look-title').textContent=l.name;$('#look-description').textContent=l.description;$('#look-counter').textContent=(lookIndex+1)+' / '+looks.length;};
+const showLook=index=>{lookIndex=(index+looks.length)%looks.length;const l=looks[lookIndex];$('#look-image').src='assets/'+l.image+'.'+(l.ext||'webp');$('#look-image').alt=l.name+(l.ext?' — фото пользователя':' — иллюстрация RMRNM');$('#look-dialog').dataset.activeLook=l.id;$('#look-credit').textContent=l.ext?'Фото пользователя · Портфолио RMRNM':'Иллюстрация RMRNM · ImageGen';$('#look-title').textContent=l.name;$('#look-description').textContent=l.description;$('#look-counter').textContent=(lookIndex+1)+' / '+looks.length;};
 $$('[data-look]').forEach(b=>b.addEventListener('click',()=>{showLook(looks.findIndex(l=>l.id===b.dataset.look));$('#look-dialog').showModal();}));
 $('#look-prev').addEventListener('click',()=>showLook(lookIndex-1));$('#look-next').addEventListener('click',()=>showLook(lookIndex+1));
 $('#choose-look').addEventListener('click',()=>{const l=looks[lookIndex];inspiration=l;$('#service').value=l.service;renderExtras();$('#look-dialog').close();goVisit();});

diff --git a/README.md b/README.md
@@ -8,7 +8,7 @@
 
 ## Визуальная идея
 
-Сливочная основа, мягкий лиловый, контрастная слива, крупная типографика Onest. Главный кадр с маникюром и небольшой акцент на ресницы; отдельный раздел показывает вторую специализацию мастера. Все пять фотографий созданы встроенным imagegen и содержат встроенные маркировки RMRNM.
+Сливочная основа, мягкий лиловый, контрастная слива, крупная типографика Onest. Главный кадр с маникюром и небольшой акцент на ресницы; отдельный раздел показывает вторую специализацию мастера. Три фотографии маникюра предоставлены пользователем. Третий кадр аккуратно приближен средствами вёрстки, исходное фото сохранено без изменений. Ресницы и интерьер являются иллюстрациями imagegen. RMRNM размещена в оформлении фотографий.
 
 ## Что работает
 
@@ -22,7 +22,7 @@
 - Раздел студии, ответы на вопросы и информация об авторском проекте.
 - Адаптивная вёрстка, локальные кириллические шрифты, WebP, видимый фокус, reduced motion и модальные окна.
 
-Ни контакты, ни личные данные не запрашиваются. Заявки и платежи не отправляются. Время, цены и длительность демонстрационные. Это не сайт действующего салона и не фотографии реальных работ мастера.
+Ни контакты, ни личные данные не запрашиваются. Заявки и платежи не отправляются. Время, цены и длительность демонстрационные. Студия вымышлена. Маникюр показан на фотографиях пользователя, ресницы и интерьер иллюстративные.
 
 ## Запуск
 

diff --git a/notes/photo-update.md b/notes/photo-update.md
@@ -1,0 +1,3 @@
+# Обновление фотографий RMRNM
+
+Пользователь предоставил три JPG с рабочего стола. Они скопированы побайтно без изменения ногтей. Кадрирование третьего фото выполнено CSS: масштаб 1.09, портретное соотношение 4:5. Все кончики ногтей сохранены. Исходники не изменены.
